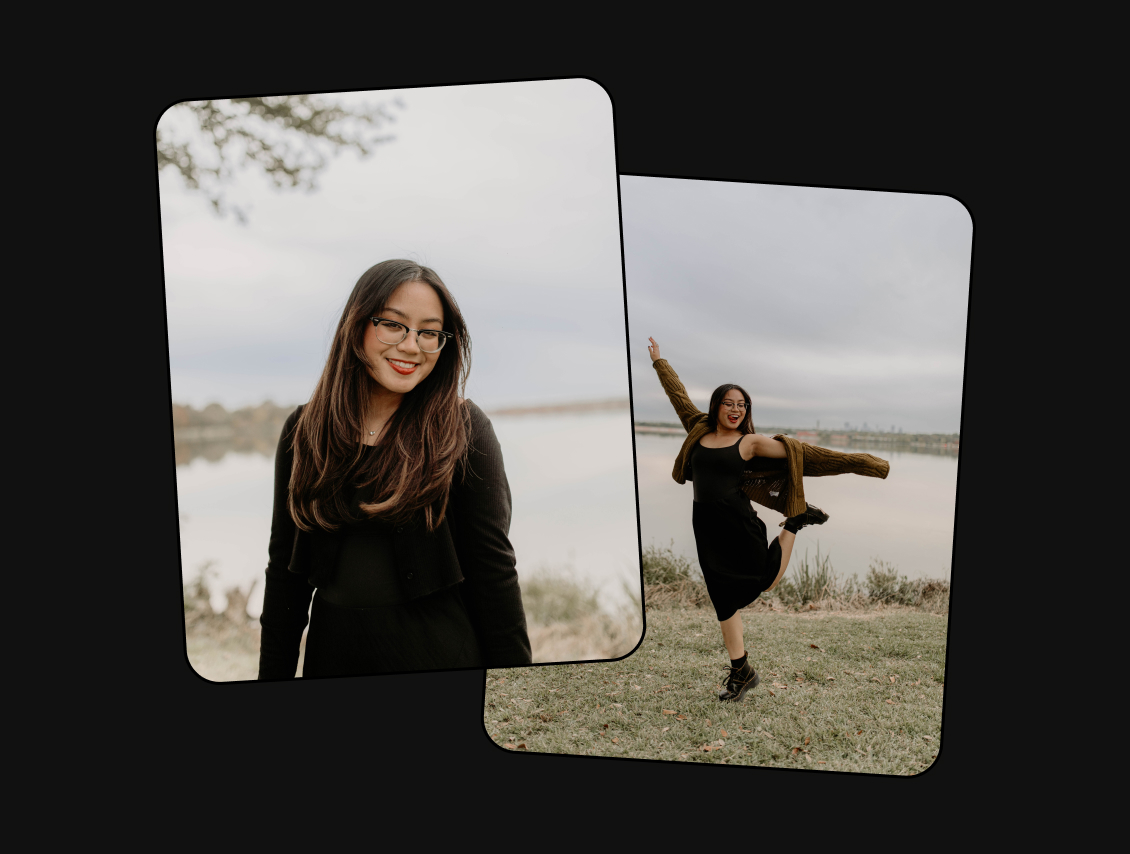
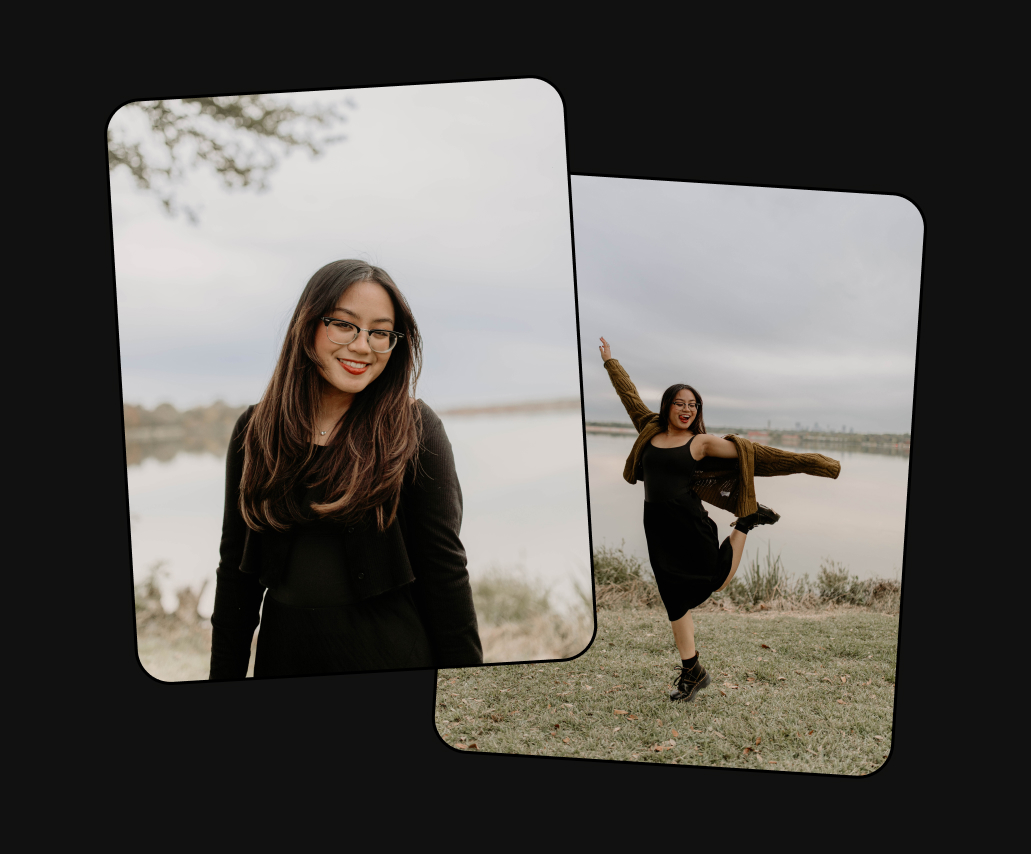
Add files via upload

Changed region(s): [[0.4035, 0.0913, 0.9001, 0.9133], [0.0931, 0.0913, 0.4656, 0.822]]

diff --git a/index.html b/index.html
@@ -353,10 +353,10 @@
     .about-headline span { display: block; }
     .about-headline .muted { color: var(--text-muted); }
 
-  [data-theme="dark"]  .about-photo-light { display: none; }
-  [data-theme="dark"]  .about-photo-dark  { display: block !important; }
-  [data-theme="light"] .about-photo-light { display: block; }
-  [data-theme="light"] .about-photo-dark  { display: none !important; }
+  .about-photo-light { display: block; }
+  .about-photo-dark  { display: none; }
+  [data-theme="dark"] .about-photo-light { display: none; }
+  [data-theme="dark"] .about-photo-dark  { display: block; }
       width: 100%;
       max-width: 480px;
       height: auto;
